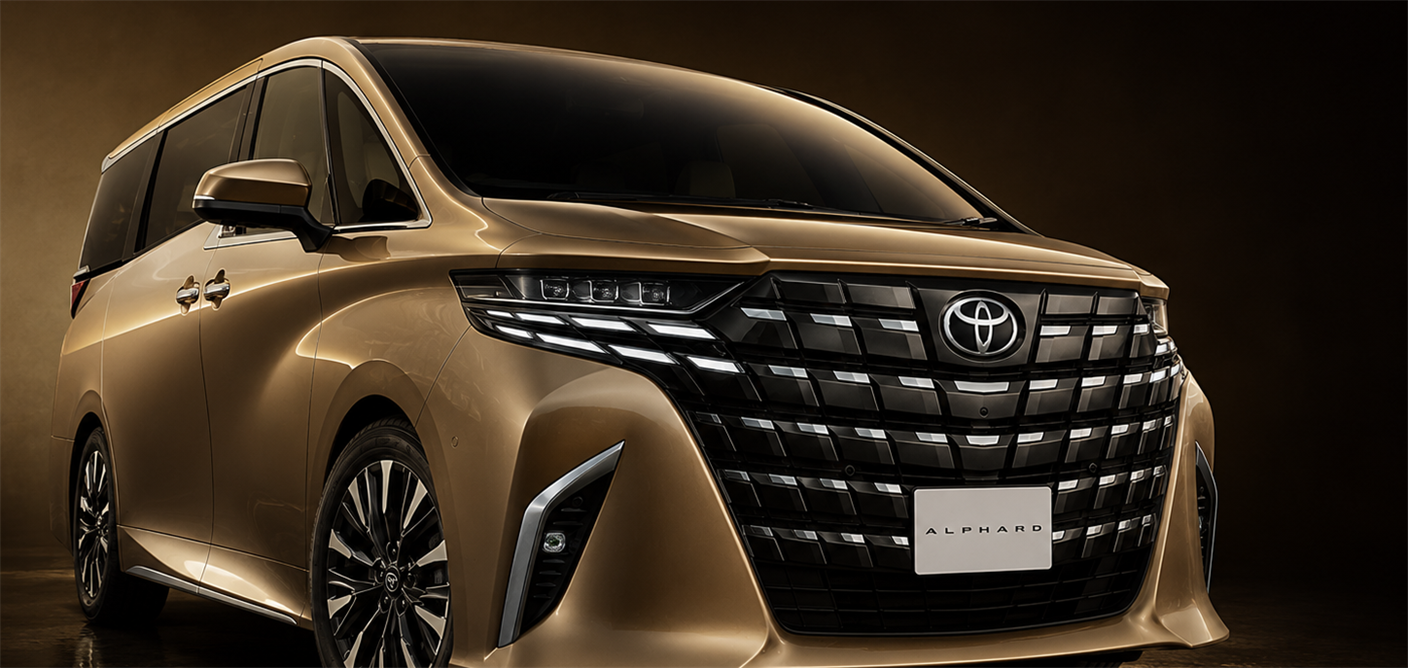
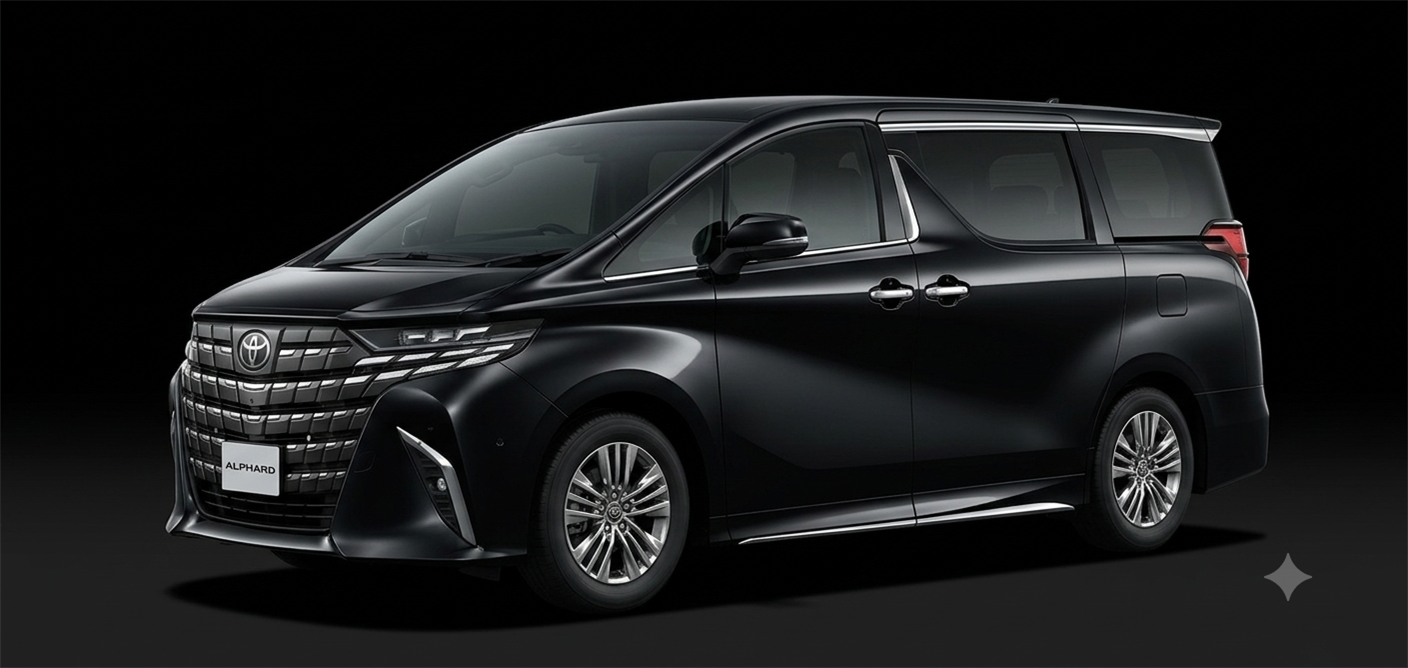
fix: repair contact link, unify Alphard color, correct facelift facts, add sitemap
S (must-fix before launch):
- Footer "X (Twitter) でお問い合わせ" now points to https://x.com/CarVistaJP
  instead of the href="#" placeholder, across all 8 pages sharing the
  policy footer.
- Alphard's Hero image reverted to the previous black photo, matching
  its own representativeColor ("Black (202)") and every other
  generation image for this vehicle -- the new gold TOP image broke
  that consistency.

A (sourced factual corrections + accessibility/SEO):
- NOAH's current-gen facelift range corrected from "2025→2026" to
  "2025" -- the actual event was a single announcement (2025-09-02),
  not a two-year span.
- SERENA's current-gen (C28) facelift was missing entirely; added the
  2024-09-09 running change (e-4ORCE 4WD grade, gasoline price
  revision).
- The detail section's main photo now gets a real alt attribute
  (era + vehicle + generation title) on every generation switch,
  instead of staying permanently alt="" -- affects all 6 vehicle pages
  via the shared car-page.js engine.
- Added a build-time sitemap.xml (generated from the same car-
  discovery mechanism as everything else in vite.config.js, so a
  future vehicle never needs a manual sitemap edit) and referenced it
  from robots.txt.

diff --git a/cars/alphard.html b/cars/alphard.html
@@ -84,7 +84,7 @@
         <p class="policy-text">各世代の紹介では、その世代を最も象徴する代表的な仕様を基準にしています。最上級グレードや、もっとも販売台数が多いグレードとは限りません。特別仕様車・限定車・グレードごとの細かな違いは、原則として扱っていません。</p>
         <p class="policy-text">掲載している画像は実車の写真ではありません。複数の公開資料を参考に、世代間の比較がしやすいよう同じ条件でCarVistaが独自に制作したビジュアル表現です。</p>
         <p class="policy-text">CarVistaは各自動車メーカーとは一切関係のない独立したプロジェクトです。掲載しているメーカー名・車種名・商標は、各権利者に帰属します。(CarVista is an independent editorial project, created with no affiliation to any vehicle manufacturer.)</p>
-        <p class="policy-text policy-text--invite">CarVistaは、みなさんと一緒により正確なアーカイブへ育てていきたいと考えています。気づいた点があれば、ぜひお聞かせください。詳しい制作方針は<a class="policy-link" href="/editorial-policy.html">こちら</a>。<br /><a class="policy-link" href="#" target="_blank" rel="noopener noreferrer">X (Twitter) でお問い合わせ</a><!-- placeholder href pending the real account handle --></p>
+        <p class="policy-text policy-text--invite">CarVistaは、みなさんと一緒により正確なアーカイブへ育てていきたいと考えています。気づいた点があれば、ぜひお聞かせください。詳しい制作方針は<a class="policy-link" href="/editorial-policy.html">こちら</a>。<br /><a class="policy-link" href="https://x.com/CarVistaJP" target="_blank" rel="noopener noreferrer">X (Twitter) でお問い合わせ</a></p>
         <p class="policy-meta">最終更新：2026年7月</p>
       </footer>
     </main>

diff --git a/cars/noah.html b/cars/noah.html
@@ -84,7 +84,7 @@
         <p class="policy-text">各世代の紹介では、その世代を最も象徴する代表的な仕様を基準にしています。最上級グレードや、もっとも販売台数が多いグレードとは限りません。特別仕様車・限定車・グレードごとの細かな違いは、原則として扱っていません。</p>
         <p class="policy-text">掲載している画像は実車の写真ではありません。複数の公開資料を参考に、世代間の比較がしやすいよう同じ条件でCarVistaが独自に制作したビジュアル表現です。</p>
         <p class="policy-text">CarVistaは各自動車メーカーとは一切関係のない独立したプロジェクトです。掲載しているメーカー名・車種名・商標は、各権利者に帰属します。(CarVista is an independent editorial project, created with no affiliation to any vehicle manufacturer.)</p>
-        <p class="policy-text policy-text--invite">CarVistaは、みなさんと一緒により正確なアーカイブへ育てていきたいと考えています。気づいた点があれば、ぜひお聞かせください。詳しい制作方針は<a class="policy-link" href="/editorial-policy.html">こちら</a>。<br /><a class="policy-link" href="#" target="_blank" rel="noopener noreferrer">X (Twitter) でお問い合わせ</a><!-- placeholder href pending the real account handle --></p>
+        <p class="policy-text policy-text--invite">CarVistaは、みなさんと一緒により正確なアーカイブへ育てていきたいと考えています。気づいた点があれば、ぜひお聞かせください。詳しい制作方針は<a class="policy-link" href="/editorial-policy.html">こちら</a>。<br /><a class="policy-link" href="https://x.com/CarVistaJP" target="_blank" rel="noopener noreferrer">X (Twitter) でお問い合わせ</a></p>
         <p class="policy-meta">最終更新：2026年7月</p>
       </footer>
     </main>

diff --git a/cars/serena.html b/cars/serena.html
@@ -84,7 +84,7 @@
         <p class="policy-text">各世代の紹介では、その世代を最も象徴する代表的な仕様を基準にしています。最上級グレードや、もっとも販売台数が多いグレードとは限りません。特別仕様車・限定車・グレードごとの細かな違いは、原則として扱っていません。</p>
         <p class="policy-text">掲載している画像は実車の写真ではありません。複数の公開資料を参考に、世代間の比較がしやすいよう同じ条件でCarVistaが独自に制作したビジュアル表現です。</p>
         <p class="policy-text">CarVistaは各自動車メーカーとは一切関係のない独立したプロジェクトです。掲載しているメーカー名・車種名・商標は、各権利者に帰属します。(CarVista is an independent editorial project, created with no affiliation to any vehicle manufacturer.)</p>
-        <p class="policy-text policy-text--invite">CarVistaは、みなさんと一緒により正確なアーカイブへ育てていきたいと考えています。気づいた点があれば、ぜひお聞かせください。詳しい制作方針は<a class="policy-link" href="/editorial-policy.html">こちら</a>。<br /><a class="policy-link" href="#" target="_blank" rel="noopener noreferrer">X (Twitter) でお問い合わせ</a><!-- placeholder href pending the real account handle --></p>
+        <p class="policy-text policy-text--invite">CarVistaは、みなさんと一緒により正確なアーカイブへ育てていきたいと考えています。気づいた点があれば、ぜひお聞かせください。詳しい制作方針は<a class="policy-link" href="/editorial-policy.html">こちら</a>。<br /><a class="policy-link" href="https://x.com/CarVistaJP" target="_blank" rel="noopener noreferrer">X (Twitter) でお問い合わせ</a></p>
         <p class="policy-meta">最終更新：2026年7月</p>
       </footer>
     </main>

diff --git a/cars/stepwgn.html b/cars/stepwgn.html
@@ -84,7 +84,7 @@
         <p class="policy-text">各世代の紹介では、その世代を最も象徴する代表的な仕様を基準にしています。最上級グレードや、もっとも販売台数が多いグレードとは限りません。特別仕様車・限定車・グレードごとの細かな違いは、原則として扱っていません。</p>
         <p class="policy-text">掲載している画像は実車の写真ではありません。複数の公開資料を参考に、世代間の比較がしやすいよう同じ条件でCarVistaが独自に制作したビジュアル表現です。</p>
         <p class="policy-text">CarVistaは各自動車メーカーとは一切関係のない独立したプロジェクトです。掲載しているメーカー名・車種名・商標は、各権利者に帰属します。(CarVista is an independent editorial project, created with no affiliation to any vehicle manufacturer.)</p>
-        <p class="policy-text policy-text--invite">CarVistaは、みなさんと一緒により正確なアーカイブへ育てていきたいと考えています。気づいた点があれば、ぜひお聞かせください。詳しい制作方針は<a class="policy-link" href="/editorial-policy.html">こちら</a>。<br /><a class="policy-link" href="#" target="_blank" rel="noopener noreferrer">X (Twitter) でお問い合わせ</a><!-- placeholder href pending the real account handle --></p>
+        <p class="policy-text policy-text--invite">CarVistaは、みなさんと一緒により正確なアーカイブへ育てていきたいと考えています。気づいた点があれば、ぜひお聞かせください。詳しい制作方針は<a class="policy-link" href="/editorial-policy.html">こちら</a>。<br /><a class="policy-link" href="https://x.com/CarVistaJP" target="_blank" rel="noopener noreferrer">X (Twitter) でお問い合わせ</a></p>
         <p class="policy-meta">最終更新：2026年7月</p>
       </footer>
     </main>

diff --git a/cars/vellfire.html b/cars/vellfire.html
@@ -84,7 +84,7 @@
         <p class="policy-text">各世代の紹介では、その世代を最も象徴する代表的な仕様を基準にしています。最上級グレードや、もっとも販売台数が多いグレードとは限りません。特別仕様車・限定車・グレードごとの細かな違いは、原則として扱っていません。</p>
         <p class="policy-text">掲載している画像は実車の写真ではありません。複数の公開資料を参考に、世代間の比較がしやすいよう同じ条件でCarVistaが独自に制作したビジュアル表現です。</p>
         <p class="policy-text">CarVistaは各自動車メーカーとは一切関係のない独立したプロジェクトです。掲載しているメーカー名・車種名・商標は、各権利者に帰属します。(CarVista is an independent editorial project, created with no affiliation to any vehicle manufacturer.)</p>
-        <p class="policy-text policy-text--invite">CarVistaは、みなさんと一緒により正確なアーカイブへ育てていきたいと考えています。気づいた点があれば、ぜひお聞かせください。詳しい制作方針は<a class="policy-link" href="/editorial-policy.html">こちら</a>。<br /><a class="policy-link" href="#" target="_blank" rel="noopener noreferrer">X (Twitter) でお問い合わせ</a><!-- placeholder href pending the real account handle --></p>
+        <p class="policy-text policy-text--invite">CarVistaは、みなさんと一緒により正確なアーカイブへ育てていきたいと考えています。気づいた点があれば、ぜひお聞かせください。詳しい制作方針は<a class="policy-link" href="/editorial-policy.html">こちら</a>。<br /><a class="policy-link" href="https://x.com/CarVistaJP" target="_blank" rel="noopener noreferrer">X (Twitter) でお問い合わせ</a></p>
         <p class="policy-meta">最終更新：2026年7月</p>
       </footer>
     </main>

diff --git a/cars/voxy.html b/cars/voxy.html
@@ -84,7 +84,7 @@
         <p class="policy-text">各世代の紹介では、その世代を最も象徴する代表的な仕様を基準にしています。最上級グレードや、もっとも販売台数が多いグレードとは限りません。特別仕様車・限定車・グレードごとの細かな違いは、原則として扱っていません。</p>
         <p class="policy-text">掲載している画像は実車の写真ではありません。複数の公開資料を参考に、世代間の比較がしやすいよう同じ条件でCarVistaが独自に制作したビジュアル表現です。</p>
         <p class="policy-text">CarVistaは各自動車メーカーとは一切関係のない独立したプロジェクトです。掲載しているメーカー名・車種名・商標は、各権利者に帰属します。(CarVista is an independent editorial project, created with no affiliation to any vehicle manufacturer.)</p>
-        <p class="policy-text policy-text--invite">CarVistaは、みなさんと一緒により正確なアーカイブへ育てていきたいと考えています。気づいた点があれば、ぜひお聞かせください。詳しい制作方針は<a class="policy-link" href="/editorial-policy.html">こちら</a>。<br /><a class="policy-link" href="#" target="_blank" rel="noopener noreferrer">X (Twitter) でお問い合わせ</a><!-- placeholder href pending the real account handle --></p>
+        <p class="policy-text policy-text--invite">CarVistaは、みなさんと一緒により正確なアーカイブへ育てていきたいと考えています。気づいた点があれば、ぜひお聞かせください。詳しい制作方針は<a class="policy-link" href="/editorial-policy.html">こちら</a>。<br /><a class="policy-link" href="https://x.com/CarVistaJP" target="_blank" rel="noopener noreferrer">X (Twitter) でお問い合わせ</a></p>
         <p class="policy-meta">最終更新：2026年7月</p>
       </footer>
     </main>

diff --git a/index.html b/index.html
@@ -63,7 +63,7 @@
       <footer class="policy" aria-label="CarVistaについて">
         <p class="policy-text">CarVistaは、各自動車メーカーとは無関係の独立したアーカイブサイトです。掲載画像は実車ではなく、公開資料をもとにCarVistaが独自に制作したビジュアル表現です。メーカー名・車種名等の商標は、各権利者に帰属します。</p>
         <a class="policy-link" href="/editorial-policy.html">制作方針・免責事項の詳細を見る</a>
-        <p class="policy-text policy-text--invite">CarVistaは、みなさんと一緒により正確なアーカイブへ育てていきたいと考えています。気づいた点があれば、ぜひお聞かせください。<br /><a class="policy-link" href="#" target="_blank" rel="noopener noreferrer">X (Twitter) でお問い合わせ</a><!-- placeholder href pending the real account handle --></p>
+        <p class="policy-text policy-text--invite">CarVistaは、みなさんと一緒により正確なアーカイブへ育てていきたいと考えています。気づいた点があれば、ぜひお聞かせください。<br /><a class="policy-link" href="https://x.com/CarVistaJP" target="_blank" rel="noopener noreferrer">X (Twitter) でお問い合わせ</a></p>
         <p class="policy-meta">最終更新：2026年7月</p>
         <!-- Quiet brand-story aside, English on purpose -- the site's
              other English moments (eyebrow labels, "Explore Cars") are

diff --git a/vite.config.js b/vite.config.js
@@ -205,8 +205,30 @@ function seoInjectPlugin() {
   }
 }
 
+// Generates dist/sitemap.xml from the same car-discovery mechanism as
+// everything else in this file (loadAllCars) -- adding a vehicle never
+// requires touching this plugin, same "single source of truth" pattern
+// as discoverEntries()/buildHomeJsonLd() above. Build-only (Rollup's
+// generateBundle hook): sitemap.xml is a production/crawler concern,
+// not something `vite` (dev) needs to serve.
+function sitemapPlugin() {
+  return {
+    name: 'car-evolution-sitemap',
+    async generateBundle() {
+      const cars = await loadAllCars()
+      const staticUrls = [`${SITE_ORIGIN}/`, `${SITE_ORIGIN}/editorial-policy.html`]
+      const carUrls = cars.map((car) => `${SITE_ORIGIN}/cars/${car.slug}.html`)
+      const urls = [...staticUrls, ...carUrls]
+      const xml = `<?xml version="1.0" encoding="UTF-8"?>\n<urlset xmlns="http://www.sitemaps.org/schemas/sitemap/0.9">\n${urls
+        .map((url) => `  <url><loc>${url}</loc></url>`)
+        .join('\n')}\n</urlset>\n`
+      this.emitFile({ type: 'asset', fileName: 'sitemap.xml', source: xml })
+    },
+  }
+}
+
 export default defineConfig({
-  plugins: [seoInjectPlugin()],
+  plugins: [seoInjectPlugin(), sitemapPlugin()],
   build: {
     rollupOptions: {
       input: discoverEntries(),

diff --git a/src/cars/noah.js b/src/cars/noah.js
@@ -100,9 +100,14 @@ const generations = [
       { x: 58, y: 52, label: '風格を漂わせる大型メッキ', dir: 'bottom', labelX: 70 },
     ],
     facelift: {
-      fromYear: '2025', toYear: '2026',
-      note: '今回の改良では、グレード構成と装備を中心にアップデート。',
-      points: ['エアロデザインの「S-Z」「S-G」にグレードを集約', '上位グレードにディスプレイオーディオPLUSやブラインドスポットモニターを標準装備'],
+      // 2025年9月2日の単発発表・発売 (グレード整理: 標準の "X" + エアロ
+      // 仕様の "S-G"/"S-Z" の3グレード構成に統合、"S-Z" に10.5インチ
+      // ディスプレイオーディオPlusを標準化)。2026年にまたがる複数年の
+      // 改良ではないため、他の現行世代(VOXY/Alphard/Vellfire)と同じ
+      // 単年表記に統一。
+      fromYear: '2025', toYear: '2025',
+      note: '2025年9月の一部改良では、グレード構成と装備を中心にアップデート。',
+      points: ['標準の「X」とエアロ仕様「S-G」「S-Z」にグレードを整理', '上位グレード「S-Z」に10.5インチディスプレイオーディオPlusを標準装備'],
     },
   },
 ]

diff --git a/src/car-page.js b/src/car-page.js
@@ -78,7 +78,7 @@ export function initCarPage(config) {
   detailRefs.image.loading = 'lazy'
   detailRefs.image.decoding = 'async'
   withImageFallback(detailRefs.image)
-  const engine = createDetailEngine(detailRefs, generations, defaultIndex)
+  const engine = createDetailEngine(detailRefs, generations, defaultIndex, config.vehicleName)
   engine.render(generations[defaultIndex])
 
   // A state switcher, not a page-jump: the timeline swaps which
@@ -226,7 +226,7 @@ function renderFacelift(refs, data) {
   refs.facelistList.classList.remove('is-open')
 }
 
-function createDetailEngine(refs, generations, defaultIndex) {
+function createDetailEngine(refs, generations, defaultIndex, vehicleName) {
   const SLIDE_PX = 20
   const SWAP_DELAY_MS = 260
   const GROUPS = [refs.image, refs.dots, refs.callouts, refs.text]
@@ -248,6 +248,7 @@ function createDetailEngine(refs, generations, defaultIndex) {
 
   function render(gen) {
     refs.image.src = gen.image
+    refs.image.alt = `${gen.era} ${vehicleName} ${gen.title}`
     refs.numeral.textContent = gen.numeral
     refs.era.textContent = gen.era
     refs.title.textContent = gen.title

diff --git a/editorial-policy.html b/editorial-policy.html
@@ -36,7 +36,7 @@
       <section class="policy-page-section">
         <h2 class="policy-page-heading">誤りの報告について</h2>
         <p class="about-text">データや画像に誤りを見つけた場合は、ぜひお知らせください。CarVistaは、みなさんと一緒により正確なアーカイブへ育てていきたいと考えています。</p>
-        <a class="policy-page-link" href="#" target="_blank" rel="noopener noreferrer">X (Twitter) でお問い合わせ</a><!-- placeholder href pending the real account handle -->
+        <a class="policy-page-link" href="https://x.com/CarVistaJP" target="_blank" rel="noopener noreferrer">X (Twitter) でお問い合わせ</a>
       </section>
 
       <footer class="policy-page-footer">

diff --git a/src/cars/serena.js b/src/cars/serena.js
@@ -124,7 +124,12 @@ const generations = [
       { x: 40, y: 30, label: '水平基調の一体型フロント', dir: 'top', labelX: 38 },
       { x: 54, y: 50, label: '発光する大型エンブレム', dir: 'bottom', labelX: 66 },
     ],
-    facelift: null,
+    // 2024年9月9日の一部改良: 4WD(e-4ORCE)モデルを追加、ガソリン
+    // モデルは価格改定。
+    facelift: {
+      fromYear: '2024', toYear: '2024',
+      points: ['4WD(e-4ORCE)モデルを追加', 'ガソリンモデルの価格を改定'],
+    },
   },
 ]
 
